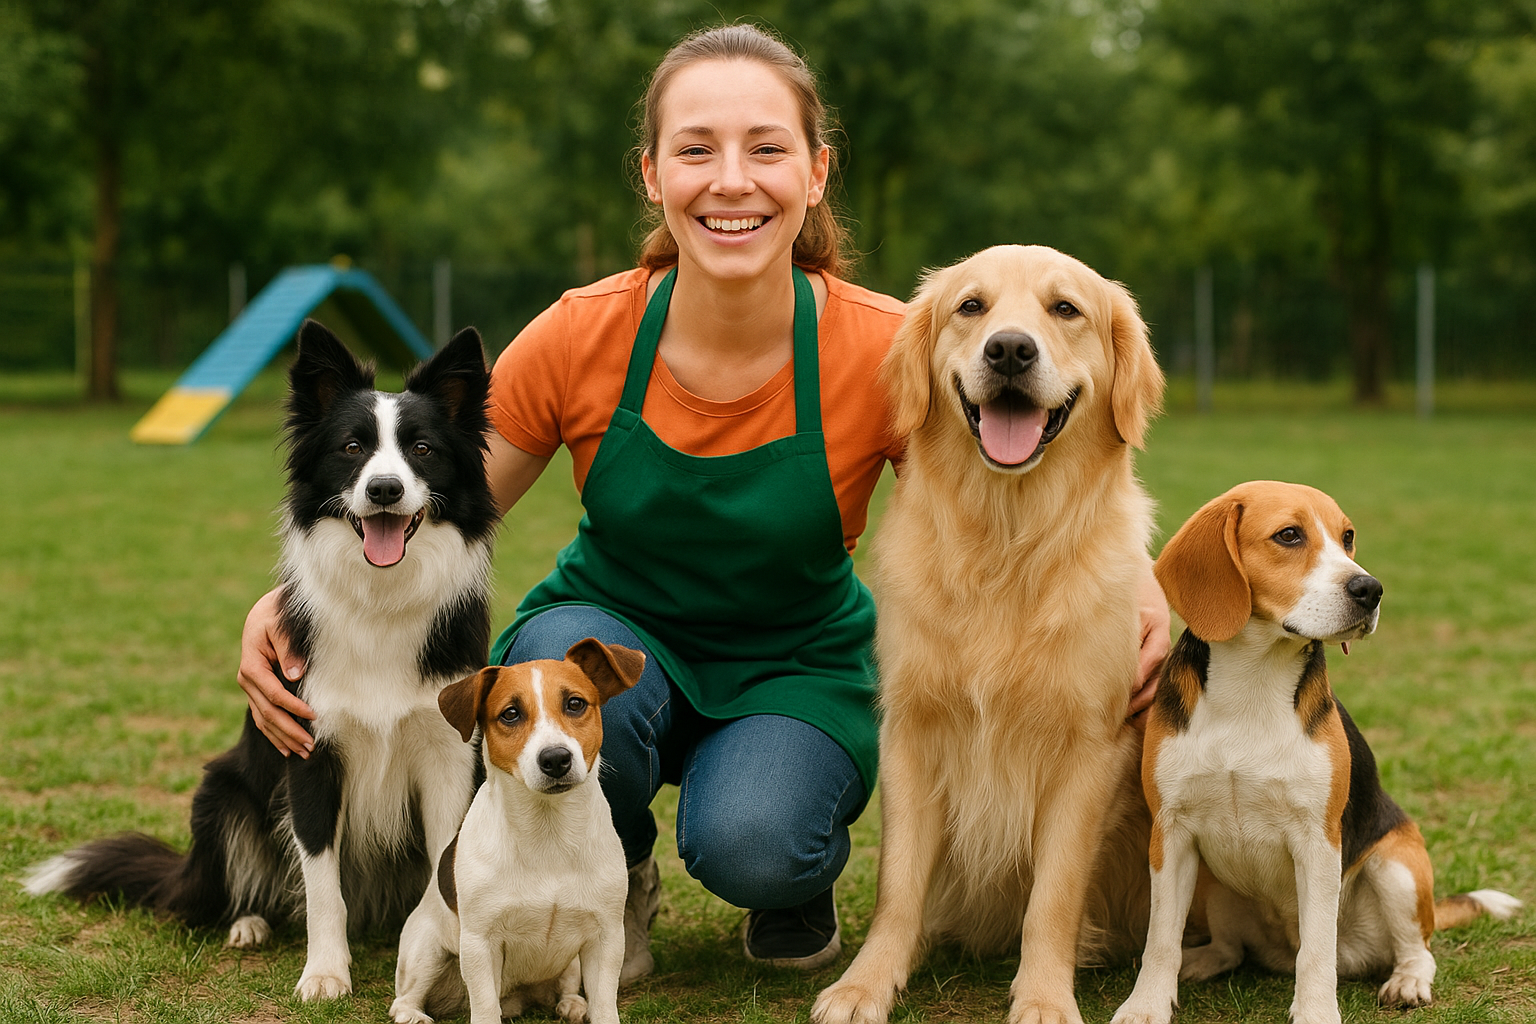
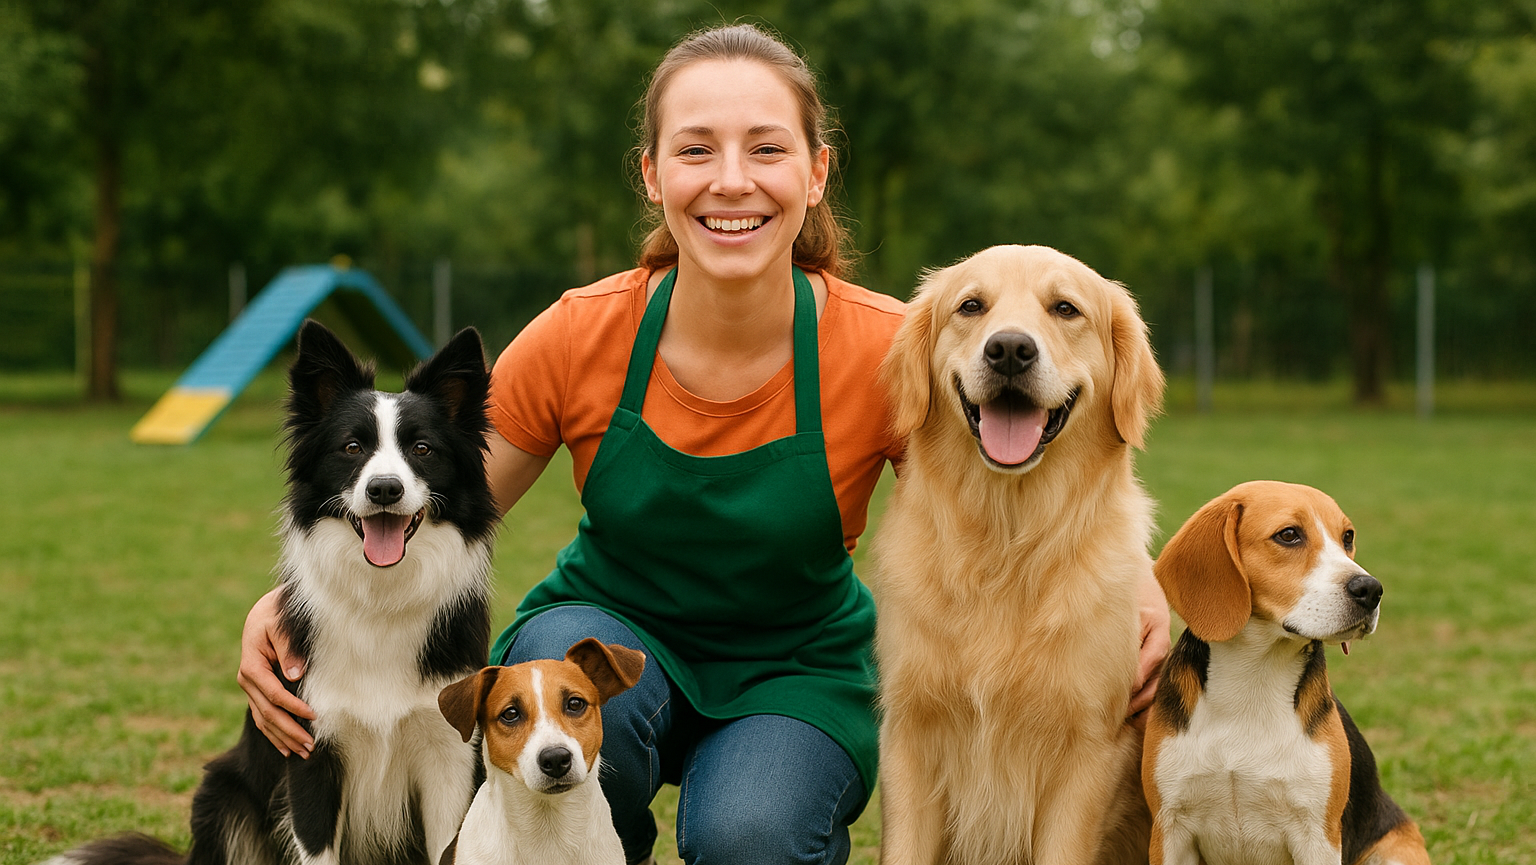
cinta de imagenes

diff --git a/src/views/landing/Landing.vue b/src/views/landing/Landing.vue
@@ -1,10 +1,34 @@
 <script setup lang="ts">
 import Header from '@/components/landing/Header.vue';
 import Footer from '@/components/landing/Footer.vue';
-import { ref } from 'vue';
+import { ref, onMounted, onUnmounted } from 'vue';
 
 // Variable reactiva que indica la sección actual (para referencia)
 const seccionActual = ref('inicio');
+
+// Galería de imágenes
+const imagenesGaleria = ref([
+    { src: '/src/assets/images/fondo.png', alt: 'Bienvenida CanEduca' },
+    { src: '/src/assets/images/galeria-terapia.png', alt: 'Terapia Canina' },
+    { src: '/src/assets/images/galeria-seguridad.png', alt: 'Entrenamiento de Seguridad' },
+    { src: '/src/assets/images/galeria-rescate.png', alt: 'Perros de Rescate' },
+    { src: '/src/assets/images/galeria-guia.png', alt: 'Perros Guía' },
+    { src: '/src/assets/images/galeria-competencia.png', alt: 'Competencias Caninas' },
+    { src: '/src/assets/images/galeria-piscina.jpg', alt: 'Perros en piscina' }
+]);
+
+const imagenActual = ref(0);
+let intervaloGaleria = null;
+
+// Función para cambiar automáticamente de imagen
+function cambiarImagenAutomatica() {
+    imagenActual.value = (imagenActual.value + 1) % imagenesGaleria.value.length;
+}
+
+// Función para ir a una imagen específica
+function irAImagen(index) {
+    imagenActual.value = index;
+}
 
 function cambiarSeccion(nombre) {
     seccionActual.value = nombre;
@@ -21,18 +45,56 @@ function cambiarSeccion(nombre) {
         });
     }
 }
+
+// Iniciar el intervalo cuando el componente se monta
+onMounted(() => {
+    intervaloGaleria = setInterval(cambiarImagenAutomatica, 6000); // Cambiar cada 4 segundos
+});
+
+// Limpiar el intervalo cuando el componente se desmonta
+onUnmounted(() => {
+    if (intervaloGaleria) {
+        clearInterval(intervaloGaleria);
+    }
+});
 </script>
 
 <template>
     <Header class="header" @cambiar-seccion="cambiarSeccion" />
     <!-- <Header @cambiar-seccion="cambiarSeccion" /> -->
 
-    <div class="text-center p-8 page">
-        <!-- Sección de Inicio -->
-        <section id="inicio" class="section-spacing">
+    <div class="text-center page">
+        <!-- Sección de Inicio con Galería -->
+        <section id="inicio" class="section-spacing px-4 sm:px-8">
             <h1 class="text-5xl font-bold titulo">Bienvenido a CanEduca</h1>
-            <p class="text-2xl mt-4">"Formamos vínculos, no solo obediencia."</p>
-            <img src="@/assets/images/fondo.png" alt="Fondo" class="mx-auto w-3/4 rounded mt-4" />
+            <p class="text-2xl mt-4 p-0">"Formamos vínculos, no solo obediencia."</p>
+            
+            <!-- Galería de imágenes automática -->
+            <div class="galeria-container mx-auto w-full px-4 sm:w-3/4 mt-2">
+                <div class="galeria-wrapper">
+                    <transition-group name="slide" tag="div" class="galeria-transition-group">
+                        <img 
+                            v-for="(imagen, index) in imagenesGaleria"
+                            v-show="index === imagenActual"
+                            :key="index"
+                            :src="imagen.src" 
+                            :alt="imagen.alt" 
+                            class="galeria-imagen rounded shadow-lg"
+                        />
+                    </transition-group>
+                </div>
+                
+                <!-- Indicadores de navegación -->
+                <div class="galeria-indicadores mt-4 flex justify-center gap-2">
+                    <button
+                        v-for="(imagen, index) in imagenesGaleria"
+                        :key="index"
+                        @click="irAImagen(index)"
+                        :class="['indicador', { 'activo': imagenActual === index }]"
+                        :aria-label="`Ir a imagen ${index + 1}`"
+                    ></button>
+                </div>
+            </div>
         </section>
 
         <!-- Sección de Quiénes Somos -->
@@ -259,7 +321,7 @@ function cambiarSeccion(nombre) {
 </template>
 <style>
 .section-spacing {
-    padding: 40px 0 60px 0;
+    padding: 10px 0 10px 0;
     display: flex;
     flex-direction: column;
     justify-content: center;
@@ -271,30 +333,145 @@ function cambiarSeccion(nombre) {
     border-radius: 8px 8px 0 0;
     margin-bottom: 1rem;
 }
+
 .titulo {
     box-sizing: border-box;
-    font-size: 3rem;
+    font-size: clamp(1.5rem, 5vw, 3rem);
     font-weight: bold;
     text-align: center;
     margin-top: 0;
-    margin-bottom: 0.5rem;
+    margin-bottom: 0.1rem;
 }
+
 h2 {
     font-size: 1.5rem;
     text-align: center;
     margin-bottom: 2rem;
 }
+
 .header {
     box-sizing: content-box;
     position: fixed;
     top: 0;
     left: 0;
     width: 100%;
-    z-index: 50; /* asegurar que el header quede sobre el contenido */
+    z-index: 50;
 }
 
-/* Añadir espacio superior para que el contenido no quede detrás del header fijo */
 .page {
-    padding-top: 96px; /* ajusta según la altura real del header */
+    padding-top: 96px;
+    overflow-x: hidden;
+}
+
+/* Estilos para la galería */
+.galeria-container {
+    position: relative;
+    max-width: 1000px;
+    margin-left: auto;
+    margin-right: auto;
+}
+
+.galeria-wrapper {
+    position: relative;
+    width: 100%;
+    aspect-ratio: 16 / 9;
+    min-height: 250px;
+    max-height: 600px;
+    overflow: hidden;
+    border-radius: 12px;
+}
+
+.galeria-transition-group {
+    position: relative;
+    width: 100%;
+    height: 100%;
+}
+
+.galeria-imagen {
+    width: 100%;
+    height: 100%;
+    object-fit: cover;
+    position: absolute;
+    top: 0;
+    left: 0;
+}
+
+/* Animación de deslizamiento hacia la derecha */
+.slide-enter-active {
+    transition: transform 0.8s ease;
+    z-index: 2;
+}
+
+.slide-leave-active {
+    transition: transform 0.8s ease;
+    z-index: 1;
+}
+
+.slide-enter-from {
+    transform: translateX(-100%);
+}
+
+.slide-enter-to {
+    transform: translateX(0);
+}
+
+.slide-leave-from {
+    transform: translateX(0);
+}
+
+.slide-leave-to {
+    transform: translateX(100%);
+}
+
+/* Indicadores de navegación */
+.galeria-indicadores {
+    display: flex;
+    justify-content: center;
+    gap: 8px;
+    flex-wrap: wrap;
+}
+
+.indicador {
+    width: 12px;
+    height: 12px;
+    border-radius: 50%;
+    border: 2px solid #3b82f6;
+    background-color: transparent;
+    cursor: pointer;
+    transition: all 0.3s ease;
+    flex-shrink: 0;
+}
+
+.indicador:hover {
+    background-color: #93c5fd;
+    transform: scale(1.2);
+}
+
+.indicador.activo {
+    background-color: #3b82f6;
+    transform: scale(1.3);
+}
+
+/* Responsive */
+@media (max-width: 640px) {
+    .page {
+        padding-left: 0.5rem;
+        padding-right: 0.5rem;
+    }
+    
+    .galeria-wrapper {
+        min-height: 200px;
+    }
+}
+
+@media (max-width: 480px) {
+    .galeria-wrapper {
+        min-height: 180px;
+    }
+    
+    .titulo {
+        font-size: clamp(1.25rem, 4vw, 2rem);
+    }
 }
 </style>
+

diff --git a/src/views/pages/auth/Login.vue b/src/views/pages/auth/Login.vue
@@ -335,20 +335,23 @@ export default {
     </Dialog>
 
     <div
-        class="bg-surface-50 dark:bg-surface-950 flex items-center justify-center min-h-screen min-w-[100vw] overflow-hidden"
+        class="flex items-center justify-center min-h-screen min-w-[100vw] overflow-hidden relative login-background"
     >
-        <div class="flex flex-col items-center justify-center">
+        <!-- Overlay oscuro semi-transparente -->
+        <div class="absolute inset-0 bg-black/40"></div>
+        
+        <div class="flex flex-col items-center justify-center relative z-10">
             <div
                 style="
-                    border-radius: 56px;
+                    border-radius: 20px;
                     padding: 0.3rem;
                     background: linear-gradient(180deg, var(--primary-color) 10%, rgba(33, 150, 243, 0) 30%);
                 "
             >
-                <div class="w-full bg-surface-0 dark:bg-surface-900 py-20 px-8 sm:px-20" style="border-radius: 53px">
+                <div class="w-full bg-white/80 dark:bg-surface-900/80 py-12 px-8 px-15 backdrop-blur-sm" style="border-radius: 20px">
                     <div class="flex flex-col items-center justify-center text-center mb-8">
-                        <img src="@/assets/images/logo.png" alt="Logo CanEduca" class="w-60 h-60 mb-4" />
-                        <div class="text-surface-900 dark:text-surface-0 text-3xl font-medium mb-2">Bienvenido!</div>
+                        <img src="@/assets/images/logo.png" alt="Logo CanEduca" class="w-60 h-60 mb-3" />
+                        <div class="text-surface-900 dark:text-surface-0 text-3xl font-medium mb-1">Bienvenido!</div>
                         <span class="text-muted-color font-medium">Inicia sesión para continuar</span>
                         <span class="text-muted-color font-medium">¿Aún no tienes una cuenta?
                             <router-link to="/auth/register" class="font-medium text-primary">Regístrate</router-link></span>
@@ -413,5 +416,12 @@ export default {
 .pi-eye-slash {
     transform: scale(1.6);
     margin-right: 1rem;
+}
+
+.login-background {
+    background-image: url('@/assets/images/perro2.jpg');
+    background-size: cover;
+    background-position: center;
+    background-attachment: fixed;
 }
 </style>

diff --git a/src/views/pages/auth/Register.vue b/src/views/pages/auth/Register.vue
@@ -117,17 +117,20 @@ export default {
 <template>
     <FloatingConfigurator />
     <div
-        class="bg-surface-50 dark:bg-surface-950 flex items-center justify-center min-h-screen min-w-[100vw] overflow-hidden"
+        class="flex items-center justify-center min-h-screen min-w-[100vw] overflow-hidden relative register-background"
     >
-        <div class="flex flex-col items-center justify-center">
+        <!-- Overlay oscuro semi-transparente -->
+        <div class="absolute inset-0 bg-black/40"></div>
+        
+        <div class="flex flex-col items-center justify-center relative z-10 mt-20">
             <div
                 style="
-                    border-radius: 56px;
+                    border-radius: 20px;
                     padding: 0.2rem;
                     background: linear-gradient(180deg, var(--primary-color) 10%, rgba(33, 150, 243, 0) 30%);
                 "
             >
-                <div class="w-full bg-surface-0 dark:bg-surface-900 py-20 px-8 sm:px-20" style="border-radius: 53px">
+                <div class="w-full bg-white/80 dark:bg-surface-900/80 py-12 px-8 px-18 backdrop-blur-sm" style="border-radius: 20px">
                     <div class="flex flex-col items-center justify-center text-center mb-8">
                         <img src="@/assets/images/logo.png" alt="Logo CanEduca" class="w-48 h-48 mb-4" />
                         <div class="text-surface-900 dark:text-surface-0 text-3xl font-medium mb-2">Crea tu cuenta</div>
@@ -224,5 +227,12 @@ export default {
 .pi-eye-slash {
     transform: scale(1.6);
     margin-right: 1rem;
+}
+
+.register-background {
+    background-image: url('@/assets/images/perro2.jpg');
+    background-size: cover;
+    background-position: center;
+    background-attachment: fixed;
 }
 </style>
